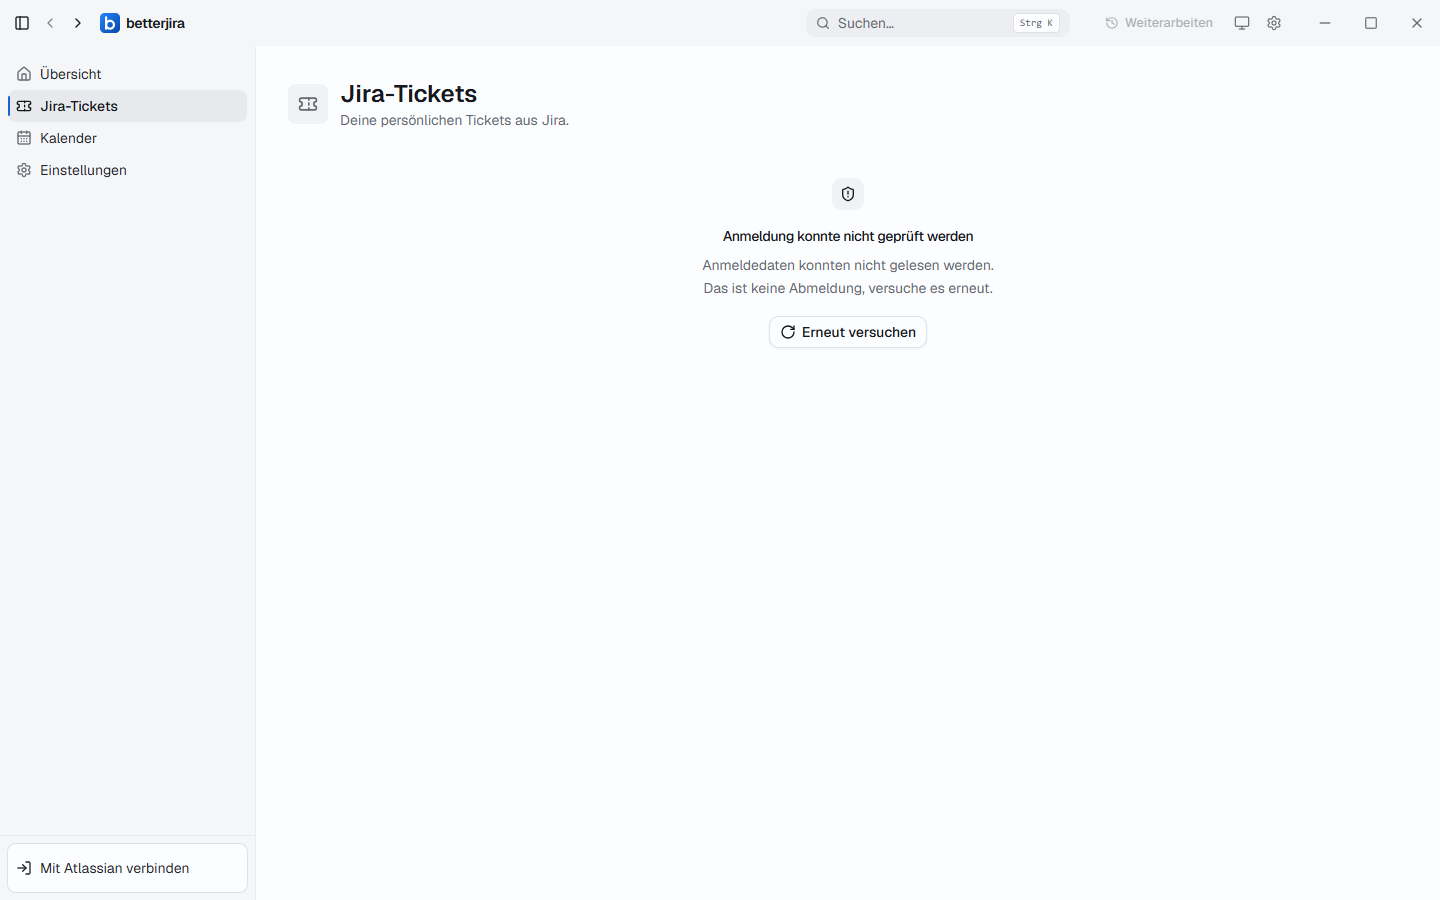
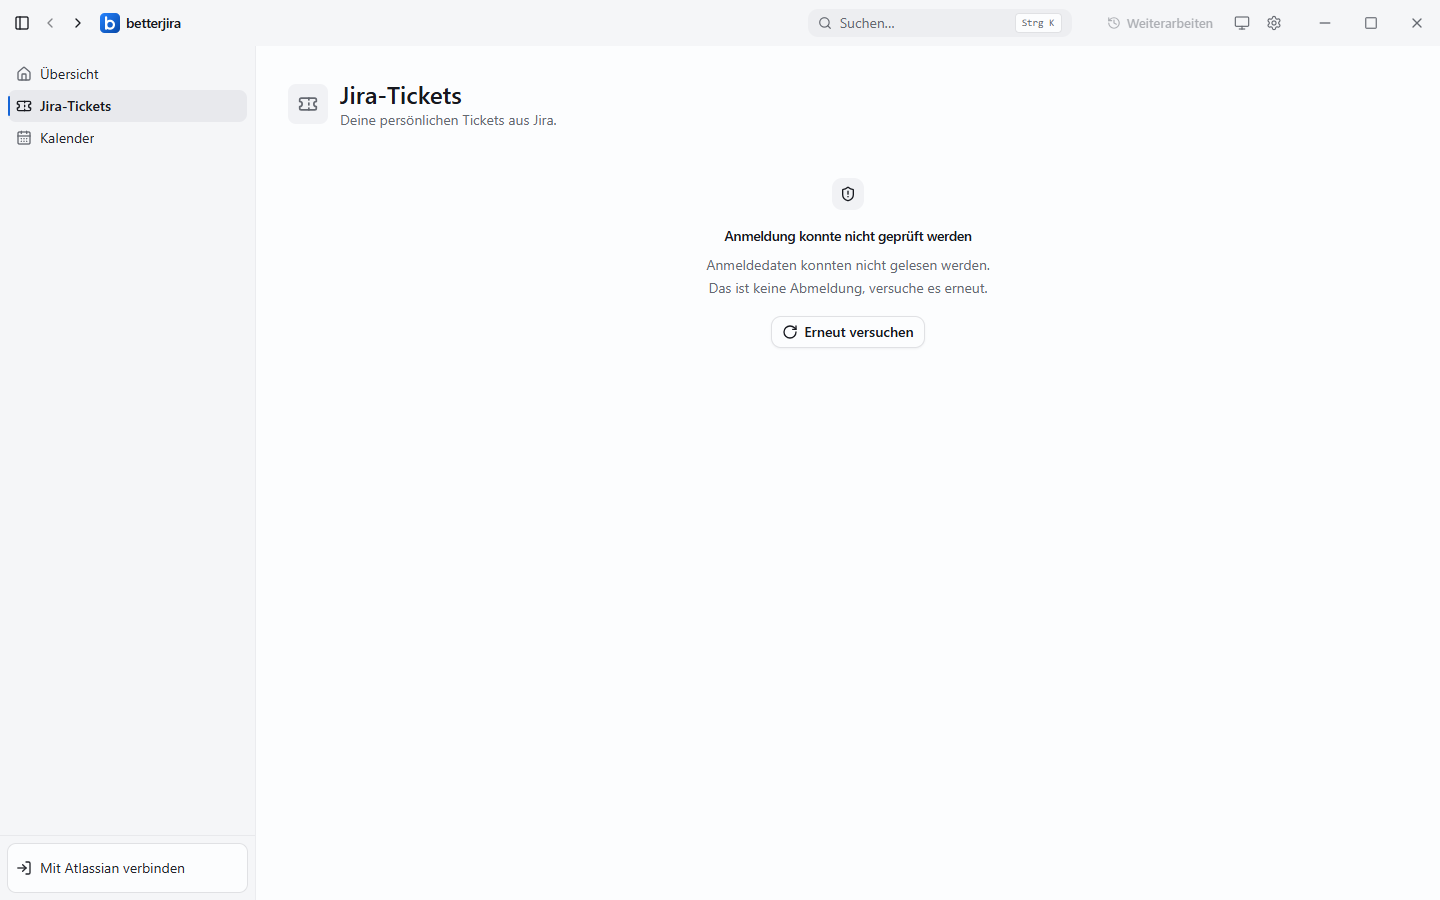
fix(navigation): Einstellungen nur noch im AppHeader

diff --git a/tests/browser/navigation.e2e.ts b/tests/browser/navigation.e2e.ts
@@ -37,8 +37,8 @@ test.beforeEach(async ({ page }) => {
 test("Hauptnavigation markiert die aktive Seite und führt zu den Jira-Tickets", async ({ page }) => {
   await open(page, "/");
   const nav = await showMainNav(page);
-  for (const label of ["Übersicht", "Jira-Tickets", "Kalender", "Einstellungen"])
-    await expect(nav.getByRole("link", { name: label, exact: true })).toBeVisible();
+  await expect(nav.getByRole("link")).toHaveText(["Übersicht", "Jira-Tickets", "Kalender"]);
+  await expect(nav.getByRole("link", { name: "Einstellungen" })).toHaveCount(0);
   await expect(nav.getByRole("link", { name: "Übersicht", exact: true })).toHaveAttribute("aria-current", "page");
 
   await nav.getByRole("link", { name: "Jira-Tickets", exact: true }).click();
@@ -52,6 +52,9 @@ test("Hauptnavigation markiert die aktive Seite und führt zu den Jira-Tickets",
   await page.keyboard.press("Enter");
   await expect(page).toHaveURL(/\/kalender$/);
   await expect(page.getByRole("heading", { name: "Kalender", exact: true })).toBeVisible();
+
+  await page.getByRole("navigation", { name: "Werkzeuge" }).getByRole("link", { name: "Einstellungen", exact: true }).click();
+  await expect(page).toHaveURL(/\/settings\/darstellung$/);
 });
 
 test("Ticket-Ansichten kommen aus der URL und folgen Zurück und Vorwärts", async ({ page }) => {

diff --git a/src/components/shell/primary-nav.tsx b/src/components/shell/primary-nav.tsx
@@ -1,5 +1,5 @@
 import { Link } from "@tanstack/react-router";
-import { CalendarDaysIcon, HouseIcon, SettingsIcon, TicketIcon } from "lucide-react";
+import { CalendarDaysIcon, HouseIcon, TicketIcon } from "lucide-react";
 import { LayoutGroup, motion, useReducedMotion } from "motion/react";
 import { SidebarMenu, SidebarMenuButton, SidebarMenuItem, useSidebar } from "@/components/ui/sidebar";
 import { SPRING_LAYOUT } from "@/lib/ease";
@@ -8,7 +8,6 @@ const ITEMS = [
   { to: "/", label: "Übersicht", icon: HouseIcon, activeOptions: { exact: true } },
   { to: "/tickets", label: "Jira-Tickets", icon: TicketIcon, activeOptions: { includeSearch: false } },
   { to: "/kalender", label: "Kalender", icon: CalendarDaysIcon, activeOptions: {} },
-  { to: "/settings", label: "Einstellungen", icon: SettingsIcon, activeOptions: { includeSearch: false } },
 ] as const;
 
 export function PrimaryNav() {
